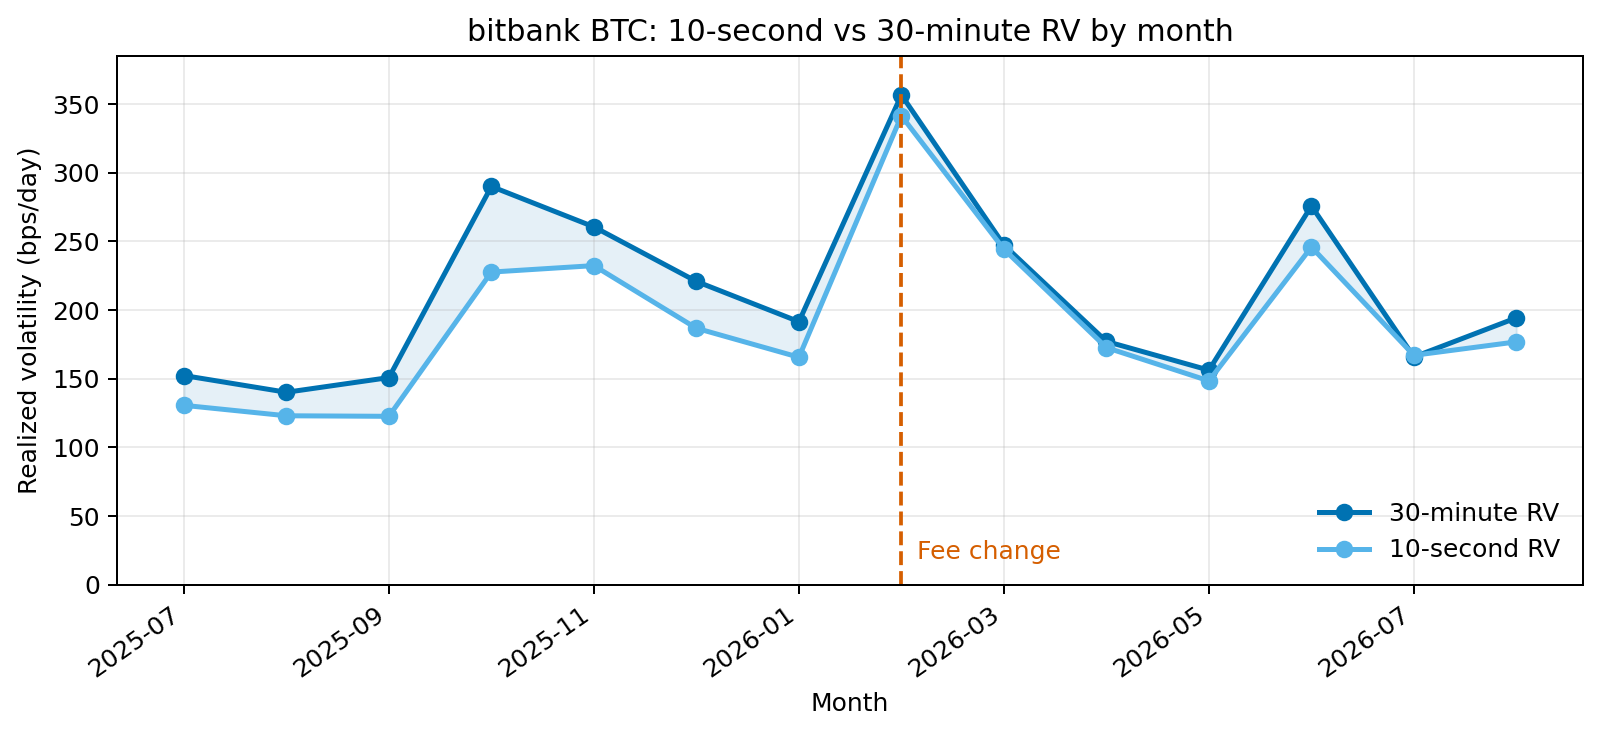
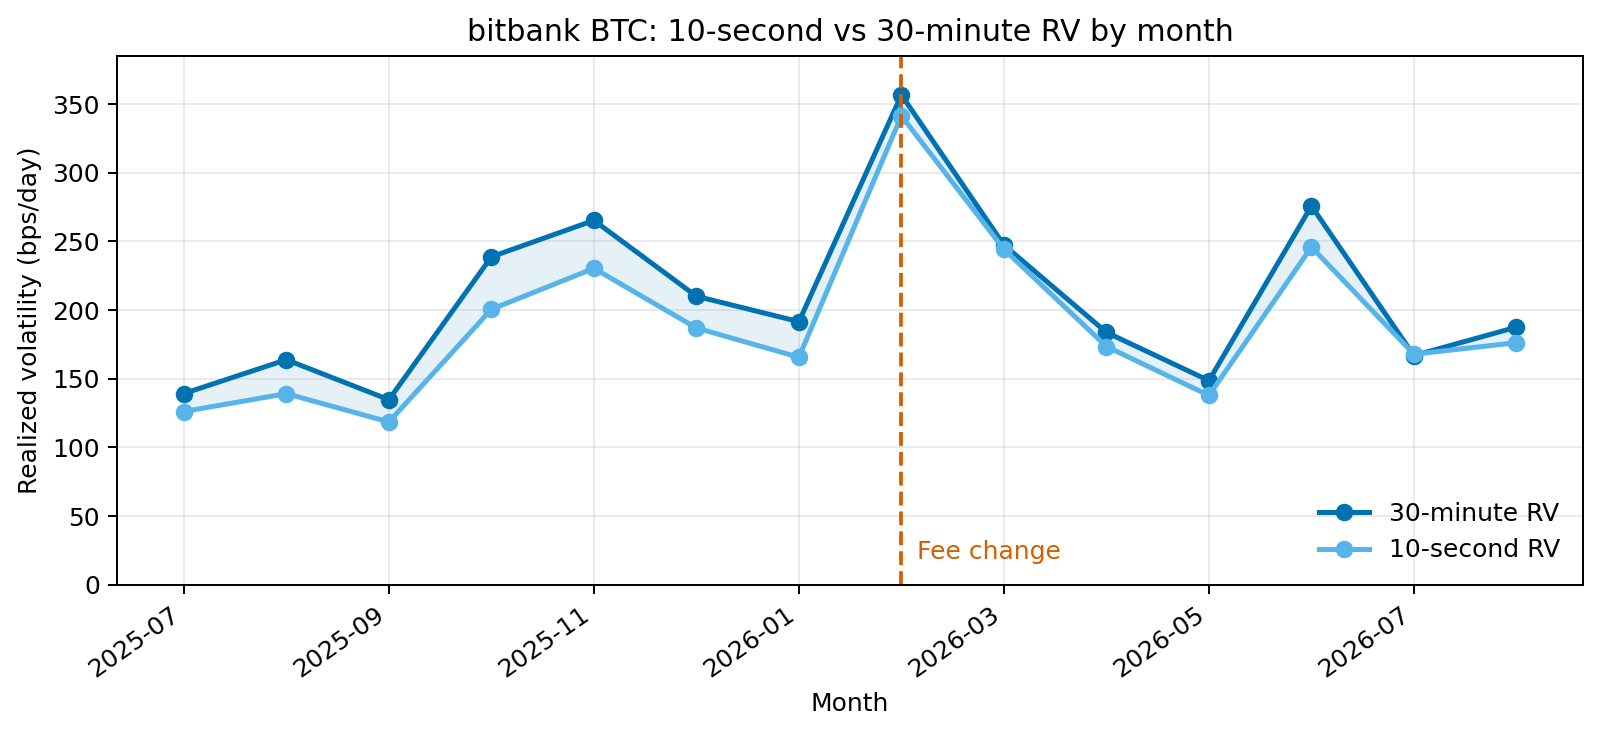
Measure article 2's bitbank BTC regimes on every day, Jul 2025 to Aug 2026
The monthly history and the before/after comparison in section 5 read a
one-day-in-three sample for most months. With every day held, the regimes
use 205 and 168 days, the 10s/30min ratio is 0.87 and 0.95, and the
pre-change months sit 9-16% below the 30-minute level.

diff --git a/article/02_volatility-estimation/analysis.py b/article/02_volatility-estimation/analysis.py
@@ -64,7 +64,7 @@ MIN_SECONDS = 1_000      # nor one whose grid was filled from almost nothing.
                          # from the first observation onward is populated.
 
 # A single window by default, not a sample spread across the archive. bitbank
-# BTC changed fee structure on 2026-02-05 and its book changed with it, so an
+# BTC changed fee structure on 2026-02-02 and its book changed with it, so an
 # archive-wide sample of that market blends two different markets. Every figure
 # here is one fee regime unless --start says otherwise.
 ap = argparse.ArgumentParser(description="Realized volatility by sampling interval.")

diff --git a/article/02_volatility-estimation/noise.py b/article/02_volatility-estimation/noise.py
@@ -30,7 +30,7 @@ MARKETS = [
     "GMO:BTC_JPY", "GMO:ETH_JPY", "GMO:XRP_JPY",
 ]
 # One window, matching analysis.py, so bitbank BTC does not straddle its
-# 2026-02-05 fee change.
+# 2026-02-02 fee change.
 ap = argparse.ArgumentParser(description="Is the high-frequency movement noise?")
 ap.add_argument("--start", default="2026-06-01")
 ap.add_argument("--days", type=int, default=28)
